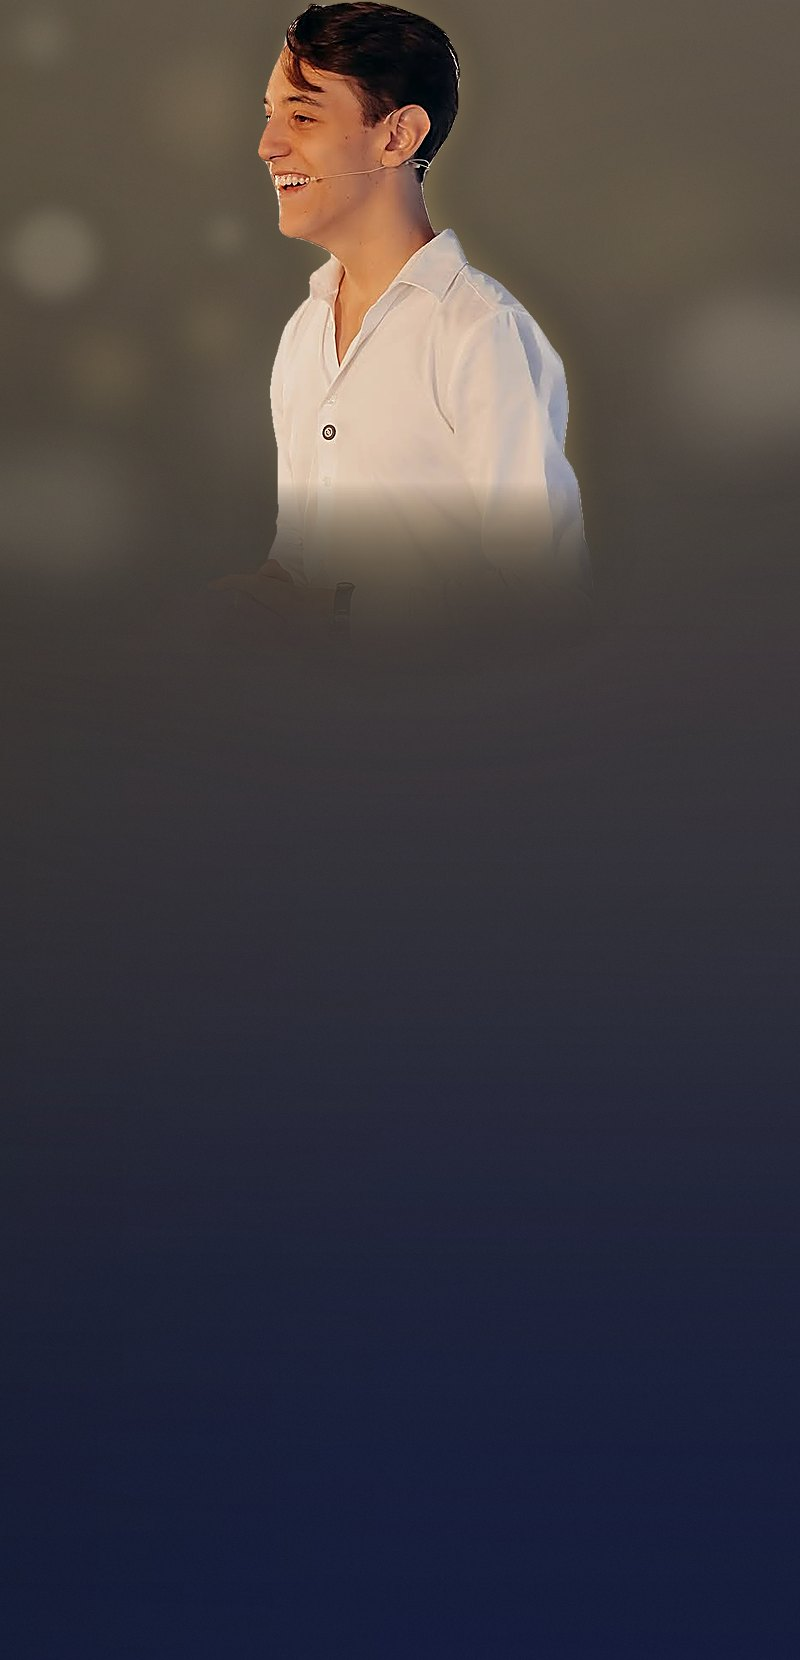
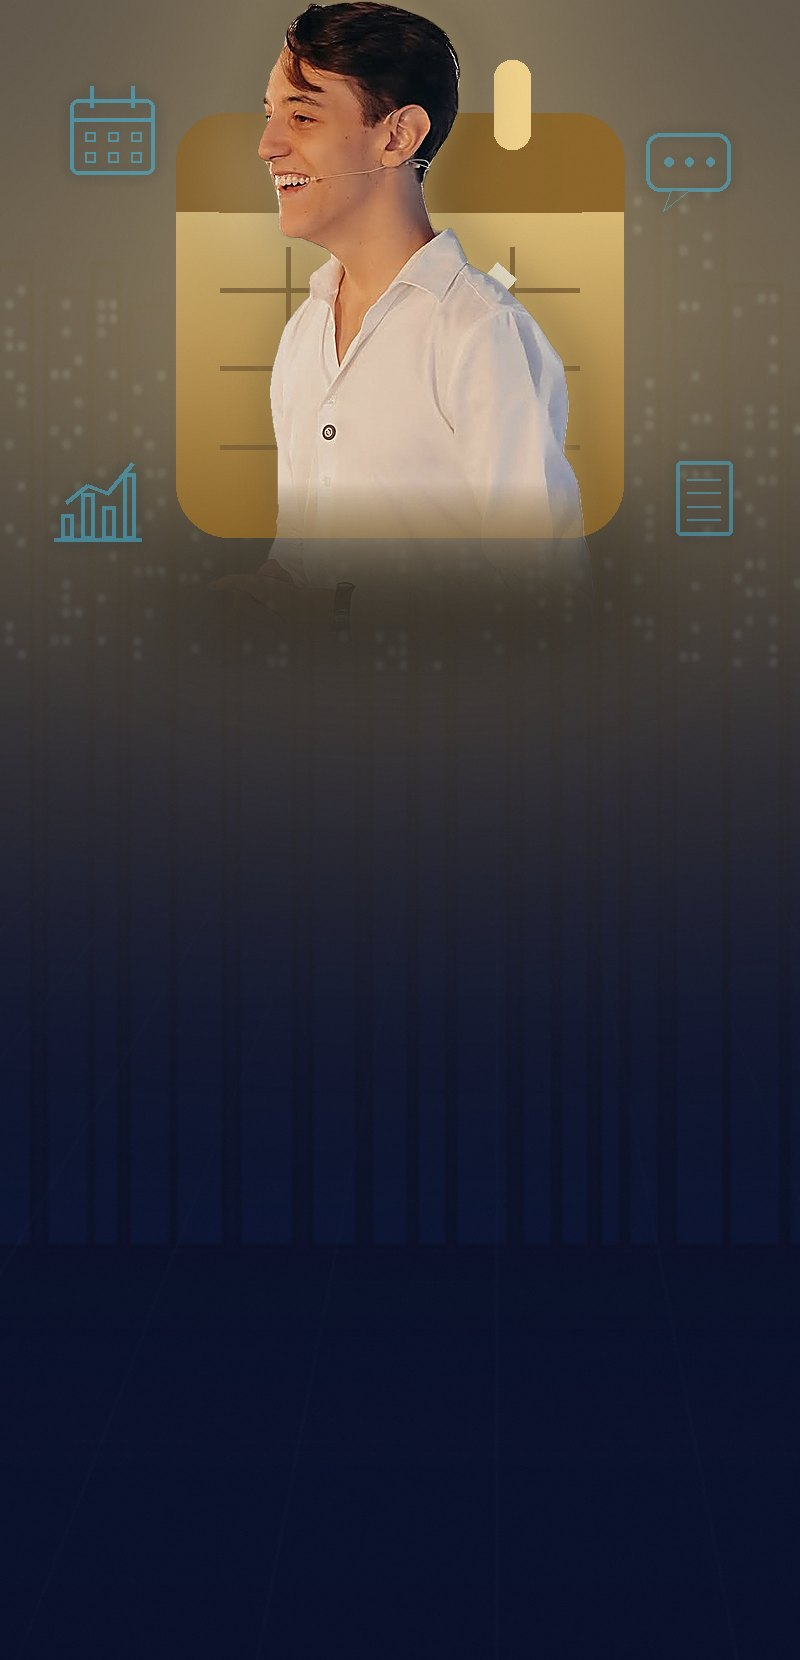
Advogados: cenário no estilo Garcez atrás do João (emblema dourado, ícones, cidade, piso)
Substitui o fundo de gradiente e bokeh por uma cena composta por código no
conceito da página do Garcez: silhueta de cidade à noite com janelas acesas,
piso com linhas em perspectiva, grande emblema dourado de calendário com
check atrás do João, ícones holográficos em linha (calendário, chat, gráfico,
alvo, documento), luz dourada, vinheta e grão. Lado esquerdo escurecido para
o texto. Regera as 4 variantes (hero desktop/mobile e bio desktop/mobile);
compose-fundos.py atualizado com a cena.

Claude-Session: https://claude.ai/code/session_016UtGgHvg5SeJY5P18SjakX

diff --git a/advogados/assets/compose-fundos.py b/advogados/assets/compose-fundos.py
@@ -1,132 +1,188 @@
+# Cenário no estilo Garcez: navy + emblema dourado + ícones em linha teal + cidade + piso iluminado
 import random, math
 from PIL import Image, ImageFilter, ImageDraw, ImageEnhance, ImageChops
 
-GOLD=(201,163,90); GOLD2=(232,196,120); NAVY_T=(4,14,48); NAVY_B=(2,8,38)
+NAVY_T=(3,12,44); NAVY_B=(2,7,32)
+GOLD=(212,170,84); GOLD_L=(246,214,140); GOLD_D=(140,100,38)
+TEAL=(70,190,230)
 
 def lerp(a,b,t): return tuple(int(a[i]+(b[i]-a[i])*t) for i in range(3))
+def new(w,h): return Image.new('RGBA',(w,h),(0,0,0,0))
 
 def base(w,h):
-    # gradiente vertical + leve escurecimento à esquerda (legibilidade do texto)
     im=Image.new('RGB',(w,h)); px=im.load()
     for y in range(h):
         c=lerp(NAVY_T,NAVY_B,y/(h-1))
         for x in range(w): px[x,y]=c
-    im=im.convert('RGBA')
-    left=Image.new('RGBA',(w,h),(0,0,0,0)); d=ImageDraw.Draw(left)
-    for x in range(int(w*0.55)):
-        a=int(70*(1-x/(w*0.55))**1.5); d.line([(x,0),(x,h)],fill=(0,0,0,a))
-    return Image.alpha_composite(im,left)
+    return im.convert('RGBA')
 
-def soft_ellipse(im, cx, cy, rx, ry, color, alpha, blur):
-    g=Image.new('RGBA', im.size,(0,0,0,0)); d=ImageDraw.Draw(g)
-    d.ellipse((cx-rx,cy-ry,cx+rx,cy+ry), fill=color+(alpha,))
-    g=g.filter(ImageFilter.GaussianBlur(blur))
+def glow(im,cx,cy,rx,ry,color,alpha,blur):
+    g=new(*im.size); d=ImageDraw.Draw(g); d.ellipse((cx-rx,cy-ry,cx+rx,cy+ry),fill=color+(alpha,))
+    return Image.alpha_composite(im,g.filter(ImageFilter.GaussianBlur(blur)))
+
+def skyline(im, horizon, height, seed=1, alpha=170):
+    w,h=im.size; rnd=random.Random(seed); g=new(w,h); d=ImageDraw.Draw(g)
+    x=-40
+    while x<w+40:
+        bw=rnd.randint(int(w*0.02),int(w*0.07)); bh=rnd.randint(int(height*0.3),height)
+        col=(8,22,66,alpha)
+        d.rectangle((x,horizon-bh,x+bw,horizon+height),fill=col)
+        # janelas
+        for yy in range(horizon-bh+10, horizon, 14):
+            for xx in range(x+6, x+bw-6, 12):
+                if rnd.random()<0.22: d.rectangle((xx,yy,xx+4,yy+6),fill=(120,170,220,rnd.randint(40,110)))
+        x+=bw+rnd.randint(4,18)
+    g=g.filter(ImageFilter.GaussianBlur(2.2))
+    # névoa na base
+    fog=new(w,h); fd=ImageDraw.Draw(fog); fd.rectangle((0,horizon-int(height*0.2),w,horizon+height),fill=(2,7,32,140))
+    fog=fog.filter(ImageFilter.GaussianBlur(height*0.25))
+    return Image.alpha_composite(Image.alpha_composite(im,g),fog)
+
+def floor_lines(im, horizon, seed=2):
+    w,h=im.size; g=new(w,h); d=ImageDraw.Draw(g); vx=w*0.62
+    for i in range(-14,15):
+        x0=vx+i*w*0.06; x1=vx+i*w*0.30
+        d.line([(x0,horizon),(x1,h)],fill=TEAL+(26,),width=2)
+    for k in range(1,9):
+        t=k/9; y=horizon+(h-horizon)*(t**2.1)
+        d.line([(0,y),(w,y)],fill=TEAL+(22,),width=1)
+    g=g.filter(ImageFilter.GaussianBlur(1.6))
+    # fade no horizonte
+    m=Image.new('L',(w,h),0); md=ImageDraw.Draw(m)
+    for y in range(horizon,h):
+        md.line([(0,y),(w,y)],fill=int(255*min(1,(y-horizon)/(h-horizon)*1.6)))
+    g.putalpha(ImageChops.multiply(g.split()[3],m))
     return Image.alpha_composite(im,g)
 
-def beam(im, x0,y0,x1,y1, width, alpha, blur):
-    g=Image.new('RGBA', im.size,(0,0,0,0)); d=ImageDraw.Draw(g)
-    d.line([(x0,y0),(x1,y1)], fill=GOLD2+(alpha,), width=width)
-    g=g.filter(ImageFilter.GaussianBlur(blur))
+def emblem(im,cx,cy,size):
+    """calendário dourado 3D com check, brilho forte"""
+    w,h=im.size
+    im=glow(im,cx,cy,size*1.6,size*1.4,GOLD,110,size*0.6)
+    im=glow(im,cx,cy,size*0.9,size*0.8,GOLD_L,90,size*0.35)
+    g=new(w,h); d=ImageDraw.Draw(g)
+    s=size; x0,y0=cx-s*0.5,cy-s*0.45; x1,y1=cx+s*0.5,cy+s*0.5
+    # corpo com gradiente vertical
+    body=Image.new('RGBA',(int(s),int(s*0.95)),(0,0,0,0)); bd=ImageDraw.Draw(body)
+    for y in range(body.height):
+        c=lerp(GOLD_L,GOLD_D,y/body.height); bd.line([(0,y),(body.width,y)],fill=c+(255,))
+    mask=Image.new('L',body.size,0); ImageDraw.Draw(mask).rounded_rectangle((0,0,body.width-1,body.height-1),radius=int(s*0.12),fill=255)
+    body.putalpha(mask)
+    g.paste(body,(int(x0),int(y0)),body)
+    # cabeçalho mais escuro + argolas
+    d.rounded_rectangle((x0,y0,x1,y0+s*0.22),radius=int(s*0.12),fill=GOLD_D+(255,))
+    d.rectangle((x0,y0+s*0.12,x1,y0+s*0.22),fill=GOLD_D+(255,))
+    for rx in (cx-s*0.25,cx+s*0.25):
+        d.rounded_rectangle((rx-s*0.04,y0-s*0.12,rx+s*0.04,y0+s*0.08),radius=int(s*0.04),fill=GOLD_L+(255,))
+    # grade
+    for i in range(1,4):
+        yy=y0+s*0.22+i*(s*0.7/4); d.line([(x0+s*0.1,yy),(x1-s*0.1,yy)],fill=GOLD_D+(160,),width=max(2,int(s*0.012)))
+    for i in range(1,4):
+        xx=x0+i*(s/4); d.line([(xx,y0+s*0.3),(xx,y1-s*0.08)],fill=GOLD_D+(160,),width=max(2,int(s*0.012)))
+    # check
+    d.line([(cx-s*0.18,cy+s*0.08),(cx-s*0.04,cy+s*0.22),(cx+s*0.24,cy-s*0.10)],fill=(255,248,225,255),width=max(4,int(s*0.06)),joint='curve')
+    # brilho especular
+    spec=new(w,h); sd=ImageDraw.Draw(spec); sd.ellipse((x0,y0-s*0.1,x0+s*0.6,y0+s*0.35),fill=(255,255,255,70))
+    spec=spec.filter(ImageFilter.GaussianBlur(s*0.12)); spec.putalpha(ImageChops.multiply(spec.split()[3], g.split()[3]))
+    g=Image.alpha_composite(g,spec)
+    # sombra suave
+    sh=new(w,h); ImageDraw.Draw(sh).ellipse((cx-s*0.6,y1-s*0.05,cx+s*0.6,y1+s*0.25),fill=(0,0,0,120)); sh=sh.filter(ImageFilter.GaussianBlur(s*0.12))
+    im=Image.alpha_composite(im,sh)
     return Image.alpha_composite(im,g)
 
-def bokeh(im, seed, region, n, rmin, rmax):
-    rnd=random.Random(seed); x0,y0,x1,y1=region
-    g=Image.new('RGBA', im.size,(0,0,0,0))
-    for i in range(n):
-        r=rnd.randint(rmin,rmax); x=rnd.randint(x0,x1); y=rnd.randint(y0,y1)
-        a=rnd.randint(22,70); bl=rnd.uniform(r*0.15, r*0.6)
-        layer=Image.new('RGBA', im.size,(0,0,0,0)); d=ImageDraw.Draw(layer)
-        col=GOLD2 if rnd.random()<0.7 else (255,240,210)
-        d.ellipse((x-r,y-r,x+r,y+r), fill=col+(a,))
-        # anel mais claro na borda (bokeh de lente)
-        d.ellipse((x-r,y-r,x+r,y+r), outline=col+(min(255,a+40),), width=max(1,r//12))
-        layer=layer.filter(ImageFilter.GaussianBlur(bl))
-        g=Image.alpha_composite(g,layer)
+def icon(im,kind,cx,cy,s,alpha=150):
+    w,h=im.size; g=new(w,h); d=ImageDraw.Draw(g); c=TEAL+(alpha,); lw=max(2,int(s*0.06))
+    if kind=='calendar':
+        d.rounded_rectangle((cx-s*0.5,cy-s*0.4,cx+s*0.5,cy+s*0.5),radius=int(s*0.1),outline=c,width=lw)
+        d.line([(cx-s*0.5,cy-s*0.15),(cx+s*0.5,cy-s*0.15)],fill=c,width=lw)
+        for rx in (cx-s*0.25,cx+s*0.25): d.line([(rx,cy-s*0.55),(rx,cy-s*0.3)],fill=c,width=lw)
+        for i in range(3):
+            for j in range(2): d.rectangle((cx-s*0.32+i*s*0.28,cy+j*s*0.25,cx-s*0.2+i*s*0.28,cy+0.12*s+j*s*0.25),outline=c,width=max(1,lw//2))
+    elif kind=='chat':
+        d.rounded_rectangle((cx-s*0.5,cy-s*0.4,cx+s*0.5,cy+s*0.3),radius=int(s*0.18),outline=c,width=lw)
+        d.polygon([(cx-s*0.2,cy+s*0.3),(cx-s*0.3,cy+s*0.55),(cx+s*0.02,cy+s*0.3)],outline=c,fill=(0,0,0,0))
+        for i in range(3): d.ellipse((cx-s*0.28+i*s*0.25,cy-s*0.1,cx-s*0.18+i*s*0.25,cy),fill=c)
+    elif kind=='chart':
+        d.line([(cx-s*0.5,cy+s*0.5),(cx+s*0.55,cy+s*0.5)],fill=c,width=lw)
+        for i,hh in enumerate((0.3,0.55,0.4,0.8)):
+            x=cx-s*0.42+i*s*0.25; d.rectangle((x,cy+s*0.5-s*hh,x+s*0.15,cy+s*0.5),outline=c,width=lw)
+        d.line([(cx-s*0.35,cy+s*0.05),(cx-s*0.1,cy-s*0.15),(cx+s*0.15,cy-s*0.05),(cx+s*0.45,cy-s*0.42)],fill=c,width=lw)
+    elif kind=='target':
+        for r in (0.5,0.32,0.14): d.ellipse((cx-s*r,cy-s*r,cx+s*r,cy+s*r),outline=c,width=lw)
+    elif kind=='doc':
+        d.rounded_rectangle((cx-s*0.38,cy-s*0.5,cx+s*0.38,cy+s*0.5),radius=int(s*0.08),outline=c,width=lw)
+        for i in range(4): d.line([(cx-s*0.22,cy-s*0.25+i*s*0.18),(cx+s*0.22,cy-s*0.25+i*s*0.18)],fill=c,width=max(1,lw//2))
+    gl=g.filter(ImageFilter.GaussianBlur(s*0.08)); gl.putalpha(gl.split()[3].point(lambda v:int(v*0.9)))
+    return Image.alpha_composite(Image.alpha_composite(im,gl),g)
+
+def vignette(im,strength=130):
+    w,h=im.size; v=Image.new('L',(w,h),0); ImageDraw.Draw(v).ellipse((-int(w*0.15),-int(h*0.4),int(w*1.15),int(h*1.4)),fill=255)
+    v=v.filter(ImageFilter.GaussianBlur(min(w,h)*0.2)); dark=Image.new('RGBA',(w,h),(0,0,0,255))
+    dark.putalpha(ImageChops.multiply(ImageChops.invert(v),Image.new('L',(w,h),strength))); return Image.alpha_composite(im,dark)
+
+def grain(im):
+    w,h=im.size; n=Image.effect_noise((w,h),14).convert('L'); layer=Image.merge('RGBA',(n,n,n,Image.new('L',(w,h),14))); return Image.alpha_composite(im,layer)
+
+def left_dark(im,frac=0.55,alpha=90):
+    w,h=im.size; g=new(w,h); d=ImageDraw.Draw(g)
+    for x in range(int(w*frac)): d.line([(x,0),(x,h)],fill=(0,0,0,int(alpha*(1-x/(w*frac))**1.4)))
     return Image.alpha_composite(im,g)
-
-def vignette(im, strength=120):
-    w,h=im.size; v=Image.new('L',(w,h),0); d=ImageDraw.Draw(v)
-    d.ellipse((-int(w*0.15),-int(h*0.35),int(w*1.15),int(h*1.35)), fill=255)
-    v=v.filter(ImageFilter.GaussianBlur(min(w,h)*0.18))
-    dark=Image.new('RGBA',(w,h),(0,0,0,strength)); mask=ImageChops.invert(v)
-    dark.putalpha(ImageChops.multiply(mask, Image.new('L',(w,h),strength)))
-    return Image.alpha_composite(im,dark)
-
-def grain(im, amount=4, seed=7):
-    rnd=random.Random(seed); w,h=im.size
-    n=Image.effect_noise((w,h), amount*4).convert('L')
-    n=ImageChops.add(n, Image.new('L',(w,h),128-int(n.getextrema()[1]/2)))  # centra ~128
-    layer=Image.merge('RGBA',(n,n,n,Image.new('L',(w,h),18)))
-    return Image.alpha_composite(im,layer)
 
 def subject(crop_bottom=0.80, fade_from=0.78):
-    cut=Image.open('joao-cut-v3.png').convert('RGBA'); cut=cut.crop(cut.getbbox())
-    cut=cut.crop((0,0,cut.width,int(cut.height*crop_bottom)))
+    cut=Image.open('joao-cut-v3.png').convert('RGBA'); cut=cut.crop(cut.getbbox()); cut=cut.crop((0,0,cut.width,int(cut.height*crop_bottom)))
     rgb=cut.convert('RGB'); a=cut.split()[3]
-    rgb=ImageEnhance.Contrast(rgb).enhance(1.06); rgb=ImageEnhance.Color(rgb).enhance(1.02)
-    # tom levemente quente
-    r,g,b=rgb.split(); r=r.point(lambda v:min(255,int(v*1.02))); b=b.point(lambda v:int(v*0.97)); rgb=Image.merge('RGB',(r,g,b))
-    fade=Image.new('L',a.size,255); d=ImageDraw.Draw(fade); h=a.height; y0=int(h*fade_from)
-    for y in range(y0,h):
-        t=(y-y0)/max(1,(h-1-y0)); d.line([(0,y),(a.width,y)], fill=int(255*(1-t)**1.5))
+    rgb=ImageEnhance.Contrast(rgb).enhance(1.06); r,g,b=rgb.split(); r=r.point(lambda v:min(255,int(v*1.02))); b=b.point(lambda v:int(v*0.97)); rgb=Image.merge('RGB',(r,g,b))
+    fade=Image.new('L',a.size,255); d=ImageDraw.Draw(fade); hh=a.height; y0=int(hh*fade_from)
+    for y in range(y0,hh): t=(y-y0)/max(1,(hh-1-y0)); d.line([(0,y),(a.width,y)],fill=int(255*(1-t)**1.5))
     return Image.merge('RGBA',(*rgb.split(),ImageChops.multiply(a,fade)))
 
-def place(bg, person, target_h, cx_frac, top_frac, rim=True):
-    s=target_h/person.height
-    p=person.resize((int(person.width*s), int(person.height*s)), Image.LANCZOS)
-    # nitidez após o resize
-    rgb=p.convert('RGB').filter(ImageFilter.UnsharpMask(radius=1.6, percent=110, threshold=2))
-    p=Image.merge('RGBA',(*rgb.split(),p.split()[3]))
+def place(bg,person,target_h,cx_frac,top_frac):
+    s=target_h/person.height; p=person.resize((int(person.width*s),int(person.height*s)),Image.LANCZOS)
+    rgb=p.convert('RGB').filter(ImageFilter.UnsharpMask(radius=1.6,percent=110,threshold=2)); p=Image.merge('RGBA',(*rgb.split(),p.split()[3]))
     x=int(bg.width*cx_frac-p.width/2); y=int(bg.height*top_frac)
-    out=bg
-    if rim:
-        # contorno de luz quente atrás da silhueta
-        a=p.split()[3]
-        glow=Image.new('RGBA',bg.size,(0,0,0,0)); tint=Image.new('RGBA',p.size,GOLD2+(0,)); tint.putalpha(a)
-        glow.paste(tint,(x+int(p.width*0.02),y),tint)
-        glow=glow.filter(ImageFilter.GaussianBlur(target_h*0.035))
-        glow=Image.merge('RGBA',(*glow.convert('RGB').split(), glow.split()[3].point(lambda v:int(v*0.55))))
-        out=Image.alpha_composite(out,glow)
-    layer=Image.new('RGBA',bg.size,(0,0,0,0)); layer.paste(p,(x,y),p)
-    return Image.alpha_composite(out,layer)
+    a=p.split()[3]; rim=new(*bg.size); tint=Image.new('RGBA',p.size,GOLD_L+(0,)); tint.putalpha(a); rim.paste(tint,(x+int(p.width*0.02),y),tint)
+    rim=rim.filter(ImageFilter.GaussianBlur(target_h*0.03)); rim.putalpha(rim.split()[3].point(lambda v:int(v*0.5)))
+    out=Image.alpha_composite(bg,rim); layer=new(*bg.size); layer.paste(p,(x,y),p); return Image.alpha_composite(out,layer)
 
-def backdrop(w,h,kx,ky, bokeh_region, seed=3, beams=True):
+def scene(w,h,ex,ey,es,icons,horizon_frac=0.62,person=None,pt=None):
     im=base(w,h)
-    im=soft_ellipse(im,int(w*kx),int(h*ky),int(h*0.75),int(h*0.62),GOLD,78,h*0.25)      # luz principal
-    im=soft_ellipse(im,int(w*kx),int(h*(ky-0.15)),int(h*0.32),int(h*0.28),GOLD2,42,h*0.12) # núcleo
-    im=soft_ellipse(im,int(w*0.18),int(h*1.05),int(h*0.8),int(h*0.5),(24,48,120),60,h*0.3)  # contraluz azul
-    if beams:
-        im=beam(im,int(w*0.62),-int(h*0.2),int(w*0.95),int(h*1.1),int(h*0.12),26,h*0.08)
-        im=beam(im,int(w*0.72),-int(h*0.2),int(w*1.02),int(h*1.0),int(h*0.06),34,h*0.05)
-    im=bokeh(im,seed,bokeh_region,16,int(h*0.012),int(h*0.07))
-    im=vignette(im,110)
-    im=grain(im)
+    im=glow(im,int(w*ex),int(h*ey),int(h*0.9),int(h*0.7),(30,60,140),70,h*0.3)
+    im=skyline(im,int(h*horizon_frac),int(h*0.35),seed=int(w+h))
+    im=floor_lines(im,int(h*horizon_frac))
+    im=emblem(im,int(w*ex),int(h*ey),int(h*es))
+    for k,(fx,fy,fs,al) in icons: im=icon(im,k,int(w*fx),int(h*fy),int(h*fs),al)
+    if person is not None: im=place(im,person,*pt)
+    im=vignette(im); im=grain(im)
     return im
 
-def save(im,path,q=86):
-    im.convert('RGB').save(path,quality=q,optimize=True,progressive=True)
+def save(im,p): im.convert('RGB').save(p,quality=86,optimize=True,progressive=True)
 
 A='/home/user/xpn-lp/advogados/assets/'
 subj=subject()
-
-# HERO DESKTOP 2560x970
+# HERO DESKTOP 2560x970: emblema atrás do João (direita), ícones ao redor, lado esquerdo escuro para o texto
 W,H=2560,970
-bg=backdrop(W,H,0.86,0.55,(int(W*0.55),int(H*0.02),int(W*0.99),int(H*0.75)),seed=3)
-save(place(bg,subj,int(H*1.14),0.875,0.06),A+'hero.jpg')
+im=scene(W,H,0.80,0.52,0.62,
+    [('calendar',(0.76,0.26,0.10,150)),('chat',(0.74,0.74,0.09,130)),('chart',(0.95,0.30,0.10,140)),('target',(0.80,0.13,0.06,110)),('doc',(0.94,0.72,0.08,120))],
+    person=subj,pt=(int(H*1.14),0.86,0.06))
+im=left_dark(im,0.6,110); save(im,A+'hero.jpg')
 
-# HERO MOBILE 800x1660
+# HERO MOBILE 800x1660: emblema atrás do João no topo
 W,H=800,1660
-bg=backdrop(W,H,0.5,0.20,(int(W*0.05),int(H*0.02),int(W*0.95),int(H*0.40)),seed=5,beams=False)
-bg=soft_ellipse(bg,int(W*0.5),int(H*0.22),int(W*0.5),int(W*0.5),GOLD,34,W*0.25)
-save(place(subject(fade_from=0.64),subj if False else bg,0,0,0) if False else place(bg,subject(fade_from=0.66),int(H*0.44),0.5,0.0),A+'mobile-hero.jpg')
+im=scene(W,H,0.5,0.19,0.27,
+    [('calendar',(0.14,0.08,0.05,140)),('chat',(0.86,0.10,0.05,130)),('chart',(0.12,0.30,0.05,130)),('doc',(0.88,0.30,0.045,120))],
+    horizon_frac=0.40,person=subject(fade_from=0.66),pt=(int(H*0.44),0.5,0.0))
+save(im,A+'mobile-hero.jpg')
 
-# QUEM-SOU 1920x800
+# QUEM-SOU 1920x800: cidade + emblema discreto atrás do João
 W,H=1920,800
-bg=backdrop(W,H,0.78,0.6,(int(W*0.5),int(H*0.02),int(W*0.99),int(H*0.7)),seed=9)
-save(place(bg,subj,int(H*1.06),0.77,0.10),A+'quem-sou.jpg')
+im=scene(W,H,0.78,0.55,0.55,
+    [('calendar',(0.66,0.20,0.10,120)),('chart',(0.96,0.28,0.09,120)),('chat',(0.68,0.74,0.08,110))],
+    horizon_frac=0.6,person=subj,pt=(int(H*1.06),0.77,0.10))
+im=left_dark(im,0.6,110); save(im,A+'quem-sou.jpg')
 
 # QUEM-SOU MOBILE 800x720
 W,H=800,720
-bg=backdrop(W,H,0.5,0.5,(int(W*0.05),int(H*0.02),int(W*0.95),int(H*0.6)),seed=11,beams=False)
-save(place(bg,subject(fade_from=0.7),int(H*1.0),0.5,0.08),A+'mobile-quem-sou.jpg')
-print('composites ok')
+im=scene(W,H,0.5,0.5,0.6,
+    [('calendar',(0.12,0.12,0.09,120)),('chart',(0.88,0.14,0.09,120))],
+    horizon_frac=0.62,person=subject(fade_from=0.7),pt=(int(H*1.0),0.5,0.08))
+save(im,A+'mobile-quem-sou.jpg')
+print('cena ok')
